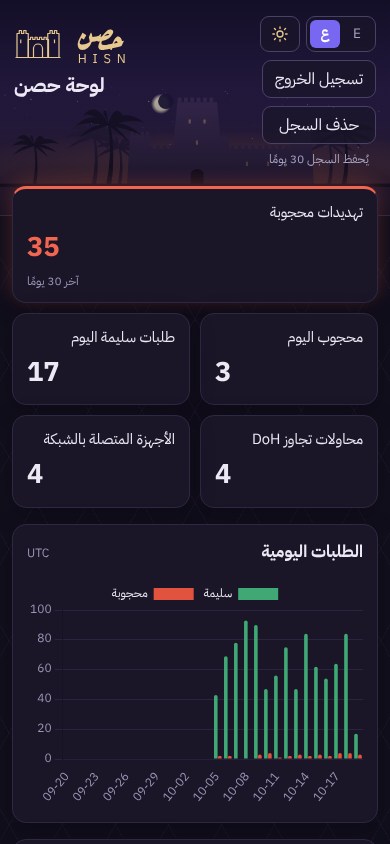
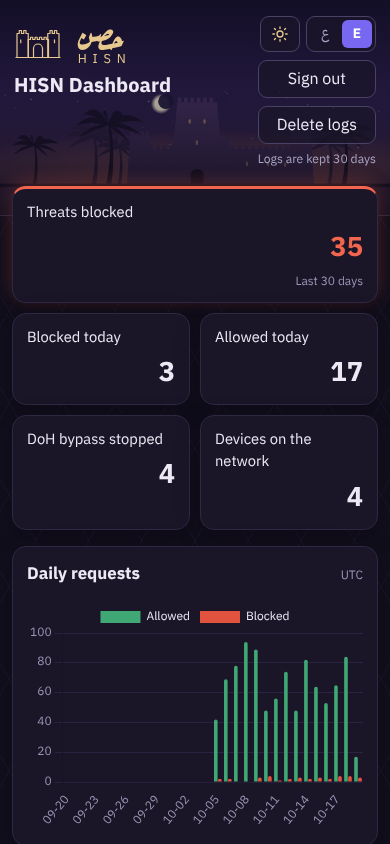
docs: use English screenshots and show the full block page

diff --git a/README.md b/README.md
@@ -8,7 +8,7 @@ Python · scikit-learn · Flask · SQLite · Arabic and English
 
 </div>
 
-![The HISN dashboard in Arabic, dark mode](docs/images/dashboard.png)
+![The HISN dashboard, dark mode](docs/images/dashboard.png)
 
 Someone at home taps a link in a text message: `alrajhi-bank.com`, "your account is suspended". The
 page looks exactly like the bank. HISN never lets it open. The phone gets HISN's own page instead,
@@ -81,8 +81,6 @@ Two more things HISN does quietly:
 
 ## The block page
 
-<img src="docs/images/block-phone.png" alt="The block page on a phone" width="260" align="right">
-
 Every blocked site leads here, on any device:
 
 - the blocked name and the reason, in Arabic and English;
@@ -91,10 +89,10 @@ Every blocked site leads here, on any device:
 - a **Back to safety** button.
 
 The page runs no script and never reads what a phishing form sends to it. It works for links typed or
-opened as `http://`; an `https://` link shows the browser's certificate warning instead, which still
-keeps the user away (see [docs/https_block_page.md](docs/https_block_page.md)).
+opened as `http://`; an `https://` link ends in the browser's "site can't be reached" error instead.
+Either way the fake site never loads (see [docs/https_block_page.md](docs/https_block_page.md)).
 
-<br clear="right">
+![The full block page for alrajhi-bank.com: the reason, what to do, and the Back to safety button](docs/images/block-page.png)
 
 ## The dashboard
 
@@ -112,9 +110,9 @@ dashboard refreshes every 15 seconds and covers the last 30 days:
 
 ![A site the owner unblocked, with Block again, and the activity of each device](docs/images/dashboard-allowed-devices.png)
 
-| English, light mode | Phone | Sign-in |
+| Light mode | Phone | Sign-in |
 | --- | --- | --- |
-| ![Dashboard in English, light mode](docs/images/dashboard-light-en.png) | ![Dashboard on a phone](docs/images/dashboard-phone.png) | ![Dashboard sign-in](docs/images/login.png) |
+| ![Dashboard in light mode](docs/images/dashboard-light-en.png) | ![Dashboard on a phone](docs/images/dashboard-phone.png) | ![Dashboard sign-in](docs/images/login.png) |
 
 ## Results
 
@@ -297,7 +295,7 @@ A DoH server set up by its IP address, a browser where the user forced DoH on, a
 
 ## Block page
 
-<img src="docs/images/block-page.png" alt="The full block page" width="420" align="right">
+<img src="docs/images/block-phone.png" alt="The block page on a phone" width="260" align="right">
 
 A blocked name resolves to `HISN_BLOCK_PAGE_IP`, so the browser lands on the block page instead of
 the real site. Run it in a second terminal, next to the DNS server:
@@ -441,8 +439,8 @@ Only the computer that runs HISN is protected. Good for trying it out and for a 
 
    (macOS: `sudo dscacheutil -flushcache; sudo killall -HUP mDNSResponder`.)
 5. In the browser settings, turn off "Use secure DNS" if it is set to a fixed provider.
-6. Open `http://absher-sa.com`: the HISN block page appears. An `https://` link shows a certificate
-   warning instead, which still means the site was blocked.
+6. Open `http://absher-sa.com`: the HISN block page appears. An `https://` link shows the browser's
+   "site can't be reached" error instead, which still means the site was blocked.
 
 To stop, set the computer's DNS back to automatic **before** stopping HISN, or it has no internet.
 

diff --git a/docs/demo.md b/docs/demo.md
@@ -49,8 +49,8 @@ Open the dashboard at `http://127.0.0.1:8080/` in one tab and sign in.
 
 ## Show it
 
-Type each name in the address bar as `http://name` (an `https://` link shows a browser certificate
-warning instead of the block page, which still means it was blocked; see
+Type each name in the address bar as `http://name` (an `https://` link shows the browser's "site
+can't be reached" error instead of the block page, which still means it was blocked; see
 [https_block_page.md](https_block_page.md)).
 
 | # | Open | What happens | Why (decision step) |
